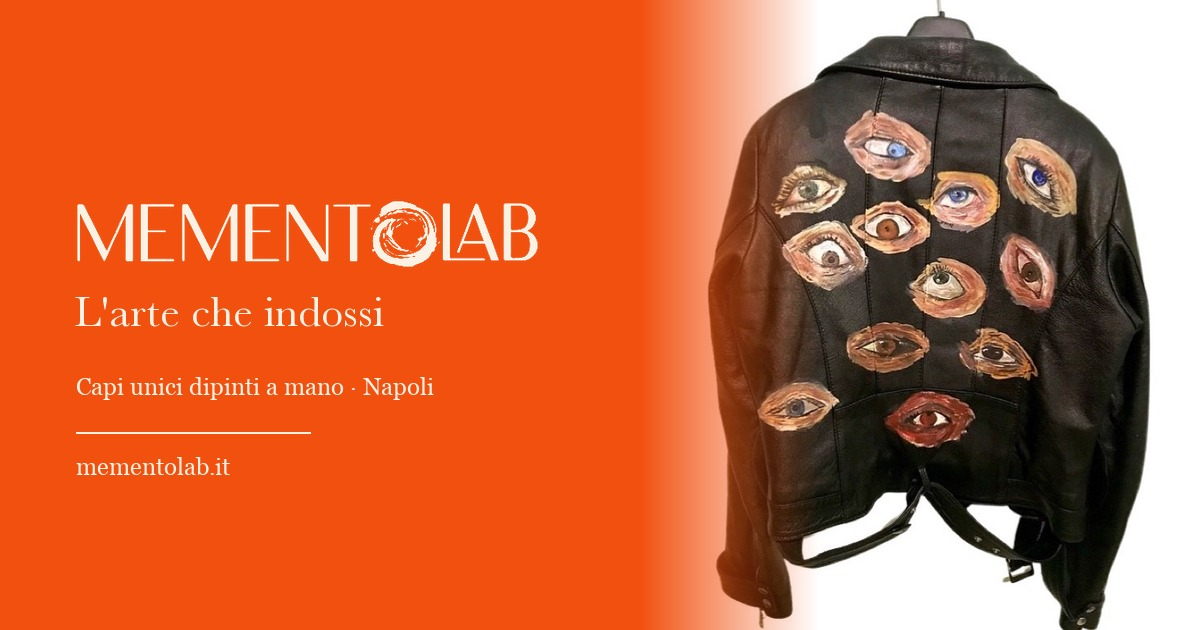
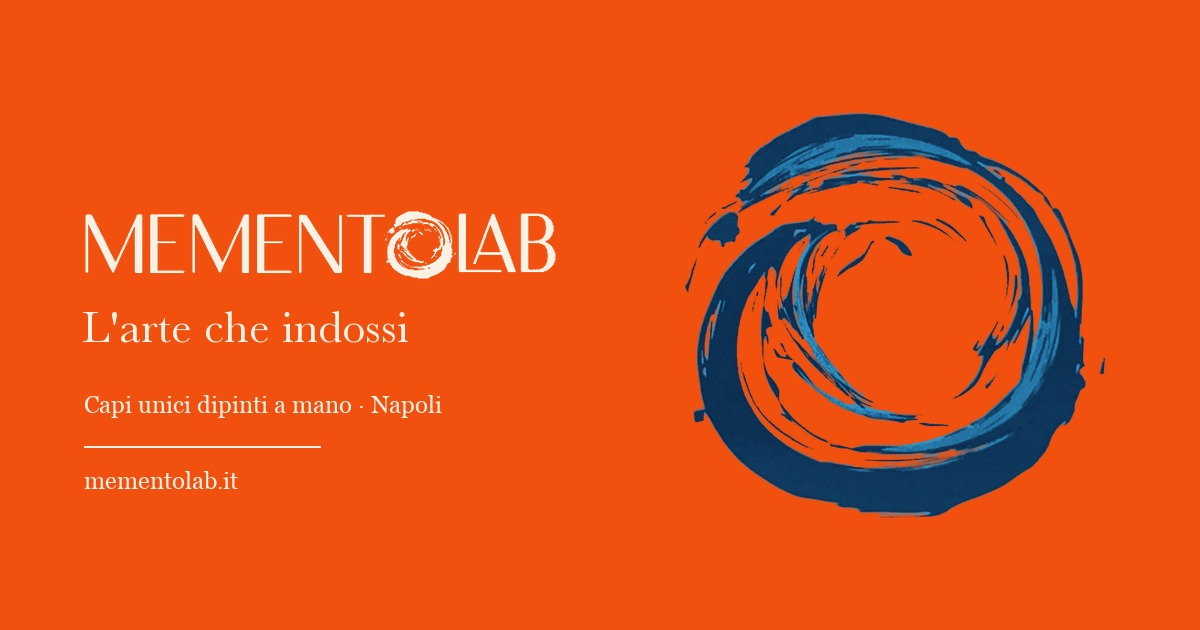
Recensioni come screenshot reali + anteprima con la spirale
- Le testimonianze ora sono gli screenshot originali delle chat, molto piu
  credibili del testo riscritto. Ritagliati sui soli fumetti: niente
  intestazioni, foto profilo o cognomi. Sotto solo il nome di battesimo.
- Anteprima di condivisione: spirale del brand al posto della foto del capo

diff --git a/src/components/Testimonials.tsx b/src/components/Testimonials.tsx
@@ -1,75 +1,112 @@
+import Image from "next/image";
 import { Reveal } from "./Reveal";
 import { SectionSpiral } from "./SectionSpiral";
 
-type Quote = { text: string; author: string; role?: string };
-
-// Recensioni REALI dei clienti, trascritte dagli screenshot che l'artista ha
+// Recensioni REALI dei clienti: sono gli screenshot delle chat che l'artista ha
 // pubblicato lei stessa nelle storie in evidenza di Instagram (@mementolab_).
-// Usiamo solo il nome di battesimo, non il cognome.
-// ⚠ Non inserire mai testimonianze inventate: oltre a essere poco credibili,
+//
+// ⚠ PRIVACY: gli screenshot sono ritagliati sui SOLI fumetti dei messaggi —
+// niente intestazione della chat, niente foto profilo, niente cognomi. Si usa
+// il solo nome di battesimo. Se un domani se ne aggiungono altri, ritagliarli
+// allo stesso modo.
+//
+// ⚠ Non inserire MAI testimonianze inventate: oltre a essere poco credibili,
 // in Italia e in UE le recensioni false sono una pratica commerciale scorretta.
-const quotes: Quote[] = [
+type Recensione = {
+  src: string;
+  w: number;
+  h: number;
+  author: string;
+  role: string;
+};
+
+const recensioni: Recensione[] = [
   {
-    text: "Ho appena ricevuto la giacca. È stupenda e la taglia è perfetta. Gli occhi sono ancora più belli dal vivo. Grazie mille anche per gli acquerelli e la piccola tela, un pensiero carinissimo.",
+    src: "/recensioni/ofelia.jpg",
+    w: 900,
+    h: 553,
     author: "Ofelia",
     role: "giubbotto dipinto a mano",
   },
   {
-    text: "Non ci posso credere, è troppo bello. Mi rendi soddisfatta e felice, non sai quanto vale per me.",
+    src: "/recensioni/yle.jpg",
+    w: 900,
+    h: 593,
     author: "Yle",
     role: "commissione custom",
   },
   {
-    text: "I received the jacket! It is even more beautiful in person. Thank you so much.",
+    src: "/recensioni/rafaella.jpg",
+    w: 900,
+    h: 459,
     author: "Rafaella",
     role: "cliente dall'estero",
   },
   {
-    text: "È bellissima davvero, grazie di cuore per tutto.",
+    src: "/recensioni/rosa.jpg",
+    w: 900,
+    h: 277,
     author: "Rosa",
     role: "giubbotto in denim",
-  },
-  {
-    text: "MementoLab trasforma la moda in arte indossabile. Ogni creazione è un pezzo irripetibile, dipinto a mano e pensato per chi vuole raccontare la propria personalità.",
-    author: "NEA Connect",
-    role: "sul progetto MementoLab",
   },
 ];
 
 export function Testimonials() {
   return (
     <section className="relative overflow-hidden py-20 sm:py-28">
-      <SectionSpiral className="left-1/2 top-1/2 h-[130%] w-[130%] -translate-x-1/2 -translate-y-1/2" opacity={0.04} />
+      <SectionSpiral
+        className="left-1/2 top-1/2 h-[130%] w-[130%] -translate-x-1/2 -translate-y-1/2"
+        opacity={0.04}
+      />
       <div className="wrap relative z-10">
         <Reveal className="mb-12 text-center">
           <p className="eyebrow">Dicono di noi</p>
           <h2 className="mt-2 font-display text-4xl text-ink sm:text-5xl">
-            Chi ha scelto un pezzo unico
+            Le parole di chi l&apos;ha ricevuto
           </h2>
+          <p className="mx-auto mt-4 max-w-xl text-pretty font-sans text-sm leading-relaxed text-ink/70">
+            Messaggi veri, arrivati dopo la consegna. Nessuno di questi è stato
+            scritto per il sito.
+          </p>
         </Reveal>
-        <div className="grid gap-5 sm:grid-cols-2 lg:grid-cols-3">
-          {quotes.map((q, i) => (
+
+        {/* impaginazione a colonne: ogni screenshot mantiene la sua altezza */}
+        <div className="columns-1 gap-5 sm:columns-2 lg:columns-3 [&>*]:mb-5">
+          {recensioni.map((r, i) => (
             <Reveal
-              key={q.author + i}
+              key={r.author}
               as="article"
-              delay={i * 0.08}
-              className="flex h-full flex-col rounded-2xl border border-ink/10 bg-white/40 p-6 sm:p-7"
+              delay={i * 0.07}
+              className="break-inside-avoid overflow-hidden rounded-2xl border border-ink/10 bg-white/70 shadow-sm"
             >
-              <span className="font-display text-5xl leading-none text-flame/50" aria-hidden>
-                &ldquo;
-              </span>
-              <blockquote className="mt-2 flex-1 text-pretty font-sans text-sm leading-relaxed text-ink/80">
-                {q.text}
-              </blockquote>
-              <figcaption className="mt-5 border-t border-ink/10 pt-4">
-                <p className="font-display text-xl text-ink">{q.author}</p>
-                {q.role ? (
-                  <p className="font-sans text-xs text-ink/50">{q.role}</p>
-                ) : null}
-              </figcaption>
+              <Image
+                src={r.src}
+                alt={`Messaggio di ${r.author} dopo aver ricevuto il pezzo`}
+                width={r.w}
+                height={r.h}
+                sizes="(max-width: 640px) 92vw, (max-width: 1024px) 46vw, 31vw"
+                className="w-full"
+              />
+              <div className="flex items-baseline justify-between gap-3 px-4 py-3">
+                <p className="font-display text-xl text-ink">{r.author}</p>
+                <p className="font-sans text-[0.7rem] uppercase tracking-wide2 text-ink/45">
+                  {r.role}
+                </p>
+              </div>
             </Reveal>
           ))}
         </div>
+
+        {/* citazione istituzionale */}
+        <Reveal delay={0.1} className="mx-auto mt-12 max-w-2xl text-center">
+          <p className="text-balance font-display text-2xl leading-snug text-ink sm:text-3xl">
+            «MementoLab trasforma la moda in arte indossabile. Ogni creazione è un
+            pezzo irripetibile.»
+          </p>
+          <p className="mt-3 font-sans text-xs uppercase tracking-wide2 text-ink/50">
+            NEA Connect
+          </p>
+        </Reveal>
       </div>
     </section>
   );

diff --git a/DECISIONS.md b/DECISIONS.md
@@ -234,12 +234,17 @@ social: resta come utilità.
 - **Tolte le due testimonianze inventate** ("Un cliente", "Una cliente") che erano
   rimaste come segnaposto: poco credibili e, in Italia/UE, le recensioni false sono
   una **pratica commerciale scorretta** sanzionabile.
-- Sostituite con **4 recensioni vere**, trascritte dagli screenshot che l'artista ha
-  pubblicato lei stessa nelle storie in evidenza di Instagram (scaricate con
-  `gallery-dl`). Attribuite con il **solo nome di battesimo**, senza cognome.
+- Sostituite con **4 recensioni vere**. Su richiesta della cliente, non trascritte
+  ma mostrate come **screenshot originali delle chat**: sono molto più credibili di
+  un testo riscritto, perché si vede che sono messaggi veri.
+  **Privacy**: ogni screenshot è ritagliato sui SOLI fumetti dei messaggi — niente
+  intestazione della chat, niente foto profilo, niente cognomi; sotto compare solo
+  il nome di battesimo. Gli originali sono quelli che l'artista ha pubblicato lei
+  stessa nelle storie in evidenza di Instagram (scaricati con `gallery-dl`).
   Una è in inglese: mostra che spedisce anche all'estero.
+  File in `public/recensioni/`. Se se ne aggiungono altri, ritagliarli allo stesso modo.
 - **Rifatta `public/og.jpg`** (l'anteprima che appare quando si condivide il link su
   WhatsApp, Instagram, Facebook, Google). Prima era un riquadro arancione col logo
   nei vecchi colori sbiaditi, senza nemmeno un capo. Ora: fondo arancione del brand,
-  wordmark crema, tagline, dominio e la **foto di un pezzo reale** sfumata a destra.
-  Rigenerabile con lo script in questo commit se si vuole cambiare il capo mostrato.
+  wordmark crema, tagline, dominio e la **spirale del brand** a destra (scelta della
+  cliente: preferita al capo fotografato, più pulita e riconoscibile).
